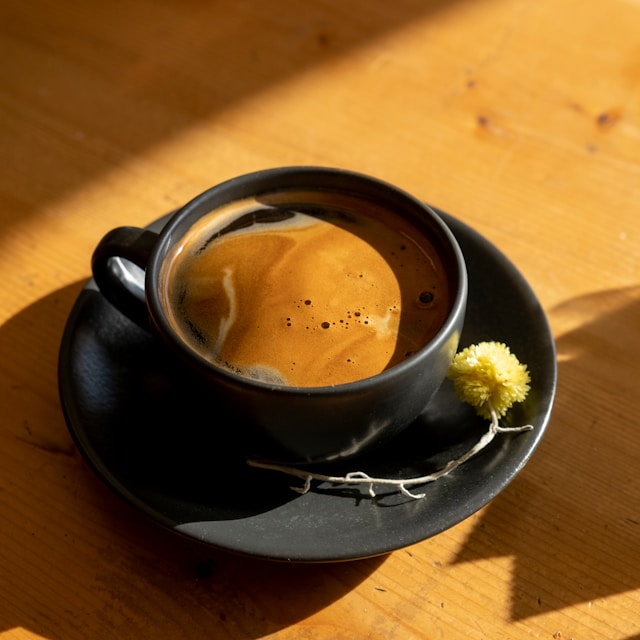
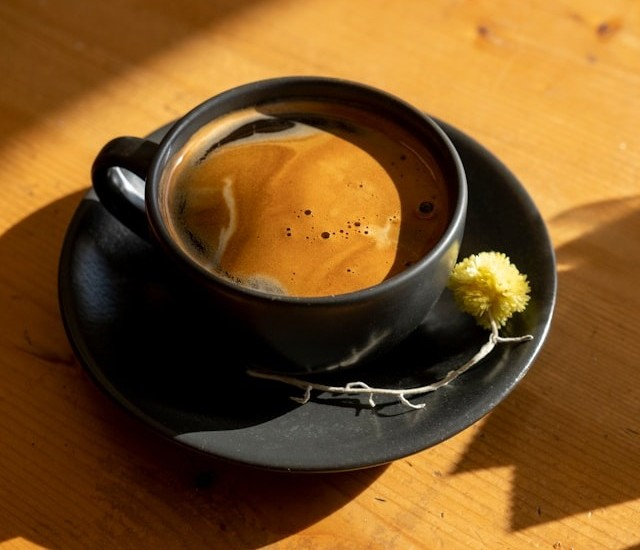
updated Photos add new drinks Americano ,Iced latte ,Iced Amercano

diff --git a/index.html b/index.html
@@ -67,7 +67,29 @@
             </div>
           </div>
         </div>
+        <div class="menu-item" data-name="Iced Latte" data-price="4.00">
+          <img src="images/IcedLatte.jpg" alt="Iced Latte">
+          <div class="item-info">
+            <h3>Iced Latte</h3>
+            <p class="desc">Chilled espresso with cold milk over ice</p>
+            <div class="item-footer">
+              <span class="price">€4.00</span>
+              <button class="add-btn">Add +</button>
+            </div>
+          </div>
+        </div>
 
+        <div class="menu-item" data-name="Iced Americano" data-price="3.20">
+          <img src="images/IcedAmericano.jpg" alt="Iced Americano">
+          <div class="item-info">
+            <h3>Iced Americano</h3>
+            <p class="desc">Cool and refreshing espresso with iced water</p>
+            <div class="item-footer">
+              <span class="price">€3.20</span>
+              <button class="add-btn">Add +</button>
+            </div>
+          </div>
+        </div>
       </div>
     </section>
 